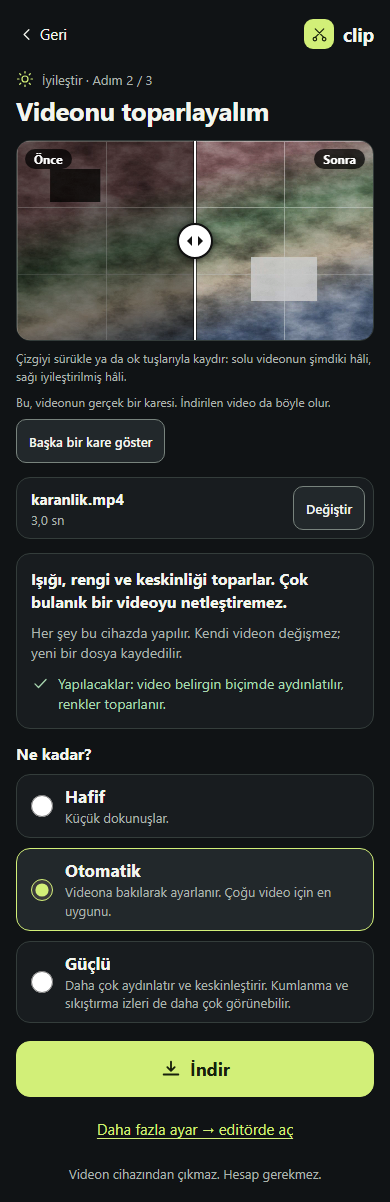
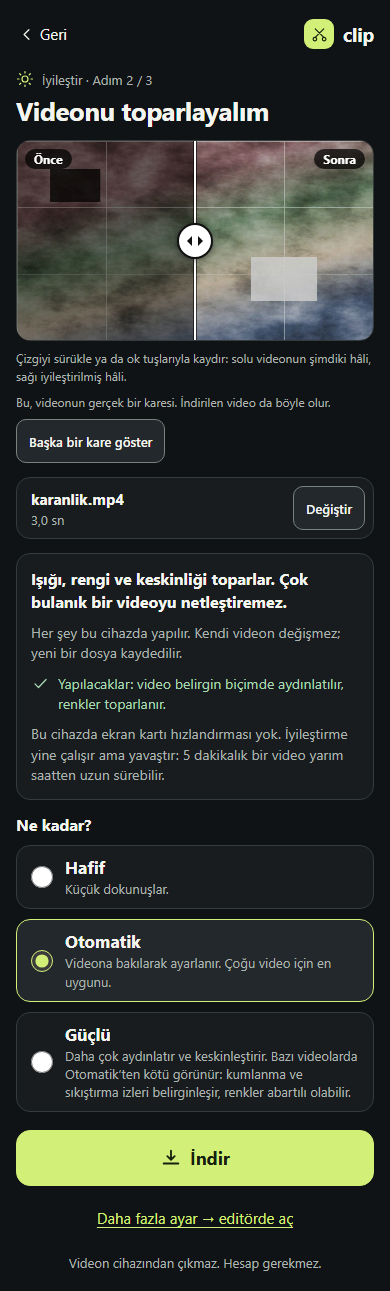
ADR-037 güncellemesi (8 Ekim): bulgu, neden, düzeltme, önce/sonra sayıları; değişiklik kaydı; ekran görüntüleri
- ADR-037 sonuna tarihli bölüm: planın eşik hatası ve test videolarının
  rastgeleliği; kalite, gerçek kayıt ve titreme tablolarında önce/sonra;
  tarayıcıda 3,22 -> 1,40 ve 6,28 -> 1,44 (sınır < 6 aynı); süre uyarısı.
- Politika notu (v8) yeni ölçümle; destek matrisi yeniden üretildi.
- Ekran görüntüleri 90-96 yeniden ("Güçlü" alt yazısı, süre uyarısı).
- many-scenes.mjs geçici dosyasını proje dışına yazıyor.

Changed region(s): [[0.0308, 0.0, 0.9846, 0.985], [0.8923, 0.0, 0.9538, 0.0616], [0.8, 0.0, 0.8615, 0.0616]]

diff --git a/docs/adr/ADR-037-enhance.md b/docs/adr/ADR-037-enhance.md
@@ -1,6 +1,6 @@
 # ADR-037 — "İyileştir": cihaz üstü, tek dokunuşla görüntü iyileştirme (klasik görüntü işleme)
 
-> Tarih: 7 Ekim 2026 · Durum: UYGULANDI (web) · Politika `2026-10-07.v8` · Şema EDL v4
+> Tarih: 7 Ekim 2026 (güncelleme: 8 Ekim 2026, sonda) · Durum: UYGULANDI (web) · Politika `2026-10-07.v8` · Şema EDL v4
 > İlgili: [ADR-034](ADR-034-task-first-home.md) (kartlar), [ADR-027](ADR-027-fast-cut.md) (hızlı kesim),
 > [ADR-029](ADR-029-export-memory.md) (dışa aktarma belleği), `video-editor-blueprint/docs/15_PRICING_FREE_PRO.md`.
 > Bu belgedeki her sayı aşağıda adı geçen betikle, bu makinede ölçüldü. Ölçülmeyen şeyler
@@ -46,7 +46,8 @@ en sakin bloklardan), keskinlik (kontrasta göre eşiklenmiş gradyan enerjisi).
 - **Bakış (renk, keskinlik, kum) video için tektir** — tipik (ortanca) ölçülerden seçilir; kareden
   kareye değişmez, bu yüzden titremez.
 - **Işık (kazanç, siyah, gama) noktadan noktaya değişebilir** ama zamanda yumuşatılır (2 sn'lik,
-  parlaklık farkına duyarlı ortanca / iki yanlı yumuşatma) ve kareler arasında doğrusal
+  parlaklık farkına duyarlı yumuşatma; 8 Ekim'den beri bir kareyi kendi istediğinden en çok yarım
+  "fark edilir adım" uzaklaştırır — sondaki güncelleme) ve kareler arasında doğrusal
   aradeğerlenir. Ardışık iki bakış arasında ışık birden değişiyorsa (sahne değişimi, pozlama
   sıçraması) araya yeni bakışlar eklenir (en çok 96) ve değişim **bitişik iki kareye** kadar
   daraltılır; düzeltme o iki kare arasında değişir, öncesine ve sonrasına taşmaz.
@@ -60,7 +61,7 @@ en sakin bloklardan), keskinlik (kontrasta göre eşiklenmiş gradyan enerjisi).
 | Siyah düzeyi yalnız siyahlar kalkıksa | %0,5 dilimi 0,12'de başlar, 0,24'te tam | bilerek açık tonlu (sisli, yüksek anahtar) görüntüyü ezmeyi |
 | Yüksek anahtar koruması | ortanca 0,3–0,42 üstünde siyah düzeltmesi söner | açık tonlu sahneleri karartmayı |
 | Grafik / ekran kaydı koruması | düz alan payı ≥ 0,4 ya da doygunluk 0,5→0,65 ise ışık ve renk kapanır | ekran kaydı, sunum, çizim renklerini bozmayı |
-| Ölü bantlar | kazanç 0,1 · siyah 0,004 · gama 0,04 · renk sapması 0,02 · canlılık 0,05 | ölçüm gürültüsünden doğan anlamsız küçük değişiklikleri |
+| Ölü bantlar | kazanç 0,1 · siyah 0,004 · gama 0,04 · renk sapması 0,02 · canlılık 0,05 — 8 Ekim'den beri basamak değil, eşikten sonra yavaşça açılır (sondaki güncelleme) | ölçüm gürültüsünden doğan anlamsız küçük değişiklikleri |
 | Beyaz dengesi | gri-dünya ve beyaz-yama **aynı yönü** gösteriyorsa; Otomatik'te sapmanın yarısı, kanal başına en çok %6 | gökyüzü / deniz / orman gibi tek renkli sahneyi "renk sapması" sanmayı |
 | Canlılık | doygunluk 0,35'in altındaysa; Otomatik'te en çok 0,15 | zaten canlı rengi bağırtmayı |
 | Keskinleştirme | keskinlik < 1,05 ise (tam güç 0,8'de) | zaten keskin görüntüde sıkıştırma izlerini büyütmeyi |
@@ -93,8 +94,9 @@ düzeltmesi 1,18. Tek kaynak: `ENHANCE_TUNING` (`web/src/domain/enhance.ts`); mo
 - **Çalışma anı denetimi** (`frameEnhancer.ts`): her dışa aktarmanın başında bir sınama resmi
   hem WebGL hem referansla işlenir. En büyük fark ≤ 2 seviye ve ortalama ≤ 0,4 değilse (ya da
   WebGL2 yoksa / bağlam düşerse) **işlemci yoluna** geçilir — yavaş ama aynı resim. Bu durumda
-  sihirbaz önceden "Bu cihazda grafik hızlandırma kullanılamıyor…" der ve sonuç satırı "Grafik
-  hızlandırma olmadan yapıldı." yazar.
+  (ve 8 Ekim'den beri WebGL bir yazılım işleyicisinde çalışıyorsa da) sihirbaz **indirmeden önce**
+  "Bu cihazda ekran kartı hızlandırması yok…" der, uzun videoda yaklaşık süreyi söyler ve sonuç
+  satırı "Ekran kartı hızlandırması olmadan yapıldı." yazar (sondaki güncelleme).
 - İyileştirme bir karede başarısız olursa dışa aktarma **durur** (`enhance_failed`); iyileştirilmemiş
   kare sessizce yazılmaz.
 
@@ -323,8 +325,8 @@ Okunuşu:
   bakış önizleme için zaten yapıldığından indirme sırasında yeniden yapılmaz.
 - **GPU yoksa** (yazılım WebGL ya da işlemci yolu) kare başına 0,1–0,3 sn: 5 dakikalık 1080p
   kumlu video **36 dakika** sürdü. İşlemci yolu kullanılacaksa sihirbaz bunu önceden söyler;
-  yazılım WebGL (SwiftShader) durumunda **söylemez** — denetim yalnızca doğruluğa bakar, hıza
-  değil. Bu bilinen bir eksiktir (aşağıda).
+  yazılım WebGL (SwiftShader) durumunda 7 Ekim'de **söylemiyordu** — 8 Ekim'de eklendi (sondaki
+  güncelleme).
 - **Bellek:** tepe değer düz kodlamaya göre +14 … +101 MiB (5 dakika) arasında; GPU'lu tarayıcılarda
   renderer ve GPU süreçlerinin tepe değeri ilk yarıda yükselip sonra yatay kalıyor (sürekli
   büyüme görülmedi; 5 dakikadan uzun süre ölçülmedi). 10 saniyelik kumlu satırdaki
@@ -408,8 +410,8 @@ referanssız) **ölçülmedi**.
 - Kalite kümesi küçük: 4 sahneden 9 kare. Gece çekimi, yüz yakın planı, iç mekân ve çok hareketli
   sahne yok; ek açık lisanslı görüntü indirilmedi (indirme için ayrı onay gerekir).
 - Hız satırları tek koşudur.
-- **Bilinen eksik:** yazılım WebGL (SwiftShader) kullanan tarayıcıda uzun süre önceden söylenmiyor
-  (yalnız işlemci yolunda söyleniyor).
+- ~~Bilinen eksik: yazılım WebGL (SwiftShader) kullanan tarayıcıda uzun süre önceden söylenmiyor.~~
+  8 Ekim'de kapandı (sondaki güncelleme).
 - **Bilinen eksik:** oynatıcı iyileştirilmiş görüntüyü canlı göstermez; önizleme tek karedir
   (arayüz bunu söyler).
 
@@ -419,3 +421,236 @@ referanssız) **ölçülmedi**.
    hiç dokunma" isteniyorsa ölü bantlar genişletilebilir; bedeli hafif sapmaların da düzelmemesi.
 2. GPU'suz cihazda uzun videoya süre tahmini / uyarı eklensin mi?
 3. "Güçlü" kalsın mı? Ölçümde bulanık, soluk ve sıkıştırılmış görüntüde Otomatik'ten kötü.
+
+## Güncelleme — 8 Ekim 2026: plan bir eşiğin üstünde duruyordu (bulgu, neden, düzeltme, yeni sayılar)
+
+Bu bölüm yukarıdaki 7 Ekim metnini **düzeltir**; çeliştiği yerde bu bölüm geçerlidir. Motor
+sürümü 2 oldu (`ENHANCE_ENGINE_VERSION`; aynı tarif artık başka pikseller verir, parmak izi değişir).
+
+### Bulgu
+
+`enhance.spec.ts` › "the correction follows a changing exposure without flicker" testinin son
+ölçütü ("iyi pozlanmış bölüm olduğu gibi kalır": 135–165. karelerin ortalama parlaklığı en çok 6
+seviye değişir) ana çalışma kopyasında üretilen `degisen-isik.mp4` ile **3,22**, başka bir çalışma
+kopyasında üretilenle **6,28** ölçtü (ikincide test kalıyordu; dosya ana kopyaya taşınınca aynı
+derlemede yine 6,28). Aynı tarif, iki farklı dosya; ve — asıl önemlisi — neredeyse aynı görünen iki
+videoya gözle görülür biçimde farklı davranan bir plan.
+
+### Neden — iki ayrı hata
+
+**1. Plan (uygulamanın hatası).** `scripts/enhance-eval/explain-plan.mjs` iki dosya için planı
+kare kare yazdırdı. İyi pozlanmış bölümdeki her kare **kendi başına** "hiçbir şey" istiyordu
+(kazanç 1). Ama:
+
+- zaman yumuşatması bir karenin düzeltmesini, ortancası benzeyen bütün komşularıyla **sınırsız**
+  ortalıyordu; iyi pozlanmış bölüm, önündeki yavaşça aydınlanan bölümün kazancından bir pay
+  alıyordu: 135. karede 1,117 / 1,119, 150. karede **1,09… / 1,109**;
+- ölü bant bir **basamaktı**: "kazanç 1,10'dan küçükse hiç uygulanmaz". 150. karede bir dosya
+  basamağın altında kaldı (kazanç 1), diğeri üstünde (kazanç 1,109).
+
+Yani iki hatanın çarpımı: taşan kazanç tam basamağın büyüklüğündeydi ve hangi yana düşeceğini
+resmin ayrıntısı belirliyordu. Aynı senaryo istatistik olarak (video dosyası olmadan) 40 farklı
+kum deseniyle koşturulunca **eski plan iyi pozlanmış bölüme 40 desenin 40'ında dokunuyordu**
+(Otomatik ve Güçlü; kazanç 1,14'e kadar), iki desen arasındaki en büyük fark 0,95 "fark edilir
+adım"dı. On iki farklı sahnede eski plan bölümü 10 sahnede ~0, 2 sahnede **+1,5 / +1,7** seviye
+oynatıyordu (`many-scenes.mjs`, referans işleyici, 320 px).
+
+**2. Test videoları (test düzeneğinin hatası).** Tarifte tohumlar sabitti ama ffmpeg'in `perlin`
+kaynağı `random_seed`'i yalnızca `random_mode=seed` ile kullanır; varsayılan kipte her
+çalıştırmada yeni bir desen çizer. Her çalışma kopyası **başka bir sahne** üretmişti (dosya
+boyutları 21,2–27,1 MB arasında). İlk şüphe (`noise=…:allf=t` ve iş parçacıkları) ölçümle çürüdü:
+o süzgeç bu ffmpeg'de çok iş parçacığıyla da aynı çıktıyı veriyor.
+
+### Düzeltme
+
+Plan (`web/src/domain/enhance.ts`):
+
+| Ne | Önce | Şimdi |
+|---|---|---|
+| Ölü bantlar (kazanç, siyah düzeyi, gama, renk sapması, canlılık, keskinleştirme, kum süzgeci) | basamak: eşiğin altında 0, üstünde tam değer | sürekli (`fadeIn`): eşiğe kadar 0, üstünde `değer − eşik·e^(−(değer−eşik)/eşik)`; eğim en çok 2; eşiğin iki katında eksik kalan eşiğin üçte biri, dört katında yirmide biri |
+| Zaman yumuşatması | benzer görünen komşularla sınırsız ortalama | (1) tek aykırı kare komşularının ortancasını alır (üçün ortası); (2) benzer görünen komşularla ortalama; (3) sonuç, karenin **kendi istediğinden en çok yarım "fark edilir adım"** uzaklaşabilir (kazançta ≈ %6, siyahta 0,004, gamada 0,02) — taşma böylece ölü bandın içinde kalır ve sıfırlanır |
+| Sık bakılan yerler | her bakılan kare eşit sayılır | her kare, temsil ettiği süreyle tartılır (ani değişimin çevresine eklenen yakın bakışlar ortalamayı kendine çekmez; kaç tane oldukları kum desenine bağlıydı) |
+| Görünmeyecek kadar küçük düzeltme türü | yapılır ve "ışık düzeltildi" denir | videonun hiçbir yerinde görünür düzeye çıkmayan tür (ışık: orta gride %2 / siyah 0,002; renk: %0,5 / canlılık 0,02) plandan çıkar — söylenen ile yapılan aynıdır |
+| Kum süzgeci açıkken keskinleştirme eşiği | süzgeç açılınca birden 0,6 × kum | süzgecin gücüyle birlikte kayar |
+
+Ölü bant eşiklerinin kendisi değişmedi (kazanç 1,10 · siyah 0,004 · gama 0,04 · renk 0,02 ·
+canlılık 0,05); değişen, eşiğin hemen üstünde olanlardır: artık orada düzeltme tam değerinde değil,
+yeni başlamış hâldedir. Bedeli aşağıdaki tabloda: küçük renk sapması düzeltmesi yarıya indi.
+
+Test videoları (`web/tests/e2e/enhance-media.ts`): `perlin=…:random_mode=seed:random_seed=7`;
+ayrıca süzgeçler ve kodlayıcı tek iş parçacığında, `+bitexact`, üst veri yok. Dosyalar yeni bir
+klasöre yazılır (`tests/media/enhance/e2e-v2`) — eski, makineden makineye değişen dosyalar bir daha
+kullanılmaz. **Kanıt:** `node scripts/enhance-eval/fixture-determinism.mjs --runs=3` → beş videonun
+beşi üç üretimde de aynı sha256; e2e koşusunun kendi ürettiği dört dosya da (dördüncü, bağımsız
+üretim) aynı özetleri verdi (`degisen-isik.mp4`: `aba22c6f65a084a0…`, 26 245 101 bayt). Sınırı:
+aynı ffmpeg sürümüyle kanıtlandı (9.0.1); başka bir sürüm başka baytlar üretebilir — bu yüzden
+test, sağlamlığını videonun bayt bayt aynı olmasından değil, planın kendisinden alır (aşağıda).
+
+### `< 6` sınırı değiştirilmedi
+
+Testin sınırı aynı kaldı; geçmesini sağlayan plandır. Yeni planla iyi pozlanmış bölümde ışık
+düzeltmesi **tam olarak sıfırdır**; geriye renk kalır:
+
+| 135–165. kareler, ortalama parlaklık farkı (seviye) | Eski plan | Yeni plan |
+|---|---|---|
+| Tarayıcıda, e2e'nin ölçtüğü gibi — "3,22" veren eski dosya | 3,22 | **1,40** |
+| Tarayıcıda, e2e'nin ölçtüğü gibi — "6,28" veren eski dosya | 6,28 | **1,44** |
+| Tarayıcıda — yeni, sabit test videosu | — | **1,44** |
+| Referans işleyici (320 px), 12 farklı sahne — Otomatik | 0 … **+1,66** | **+0,02 … +0,05** |
+| Referans işleyici, 12 farklı sahne — Güçlü | −0,14 … **+1,55** | −0,14 … −0,28 |
+| Referans işleyici, 12 farklı sahne — Hafif | 0 | 0 |
+
+Tarayıcı satırları: Playwright Chromium 153, normal derleme, sihirbaz, Otomatik; kaydedilen dosya
+testin kendi ölçüsüyle ölçüldü (`frameLumas`). Üç dosya artık aynı sonucu veriyor (1,40 / 1,44 /
+1,44). Bu ~1,4 seviyenin ışık düzeltmesiyle ilgisi yok (referans işleyicide ışık payı tam 0, renk
+payı +0,03…+0,05): geri kalanı dışa aktarmanın kendi tabanıdır (yeniden kodlama ve renk aralığı
+dönüşümü). 6'lık sınırın altında, geniş payla; sınırı daraltmak için tek bir tarayıcı ölçümü
+yeterli dayanak değil, o yüzden o da değiştirilmedi. Aynı testte ek bir ölçüt var artık: yavaş
+yükselişin iyi pozlanmış son bölümü (105–135. kareler) de 6 seviyeden az değişir (ölçülen 1,33–1,35).
+Karanlık bölümler eskisi gibi aydınlatılıyor (referans işleyici, 12 sahne: ilk saniye +46, karanlık
+basamak +45 seviye; eski planda +41 / +45 — yumuşatma artık ilk saniyenin kazancını aşağı çekmiyor;
+tarayıcıda +48 / +47).
+
+### Bu sınıf hata artık video dosyası olmadan yakalanıyor
+
+`web/tests/unit/enhanceSensitivity.test.ts` (8 test):
+
+- `fadeIn`: bandın içinde 0, kenarında sürekli, eğim ≤ 2, uzakta değerin kendisi.
+- `chooseTone`: kamera görüntüsüne benzeyen bütün histogramlarda (on binlerce birleşim × üç güç)
+  bir ölçümün **yarım 8-bit seviye** oynaması düzeltmeyi yarım "fark edilir adım"dan az oynatır
+  (eski basamaklarla: 0,84 — %10 kazanç birden — ve 1).
+- `chooseLook`: doygunluk, kum, keskinlik ya da renk sapmasındaki küçük değişiklik beyaz dengesini
+  < 0,005, canlılığı < 0,005, kum süzgecini < 0,25 seviye, keskinleştirmeyi < 0,1 oynatır.
+- Plan: bulgunun videosu istatistik olarak, worker'ın baktığı gibi (yarım saniye + yakın
+  bakışlar), **40 farklı kum deseniyle**: iyi pozlanmış bölüm üç güçte de **tam olarak nötr**;
+  hiçbir kare bir desenden ötekine bir "fark edilir adım"dan fazla farklı işlenmez (ölçülen: Hafif
+  0,23 · Otomatik 0,56 · Güçlü 0,52; eski plan 0,90 / 0,95 / 0,96); kum iki katına çıkınca fark en
+  çok 2,5 katına çıkar (yakında uçurum yok).
+
+Aynı senaryo eski planla koşturulduğunda ilk plan testi 40 desenin 40'ında kalıyor
+(`.scratch` betiğiyle doğrulandı; eski dosya `git show ef6c345:web/src/domain/enhance.ts`).
+
+### Kazançlar korundu mu — önce / sonra
+
+**Kalite (12 bozulma × 9 kare; Δ dB / Δ SSIM; aynı küme, aynı betik):**
+
+| Bozulma | Hafif önce → sonra | Otomatik önce → sonra | Güçlü önce → sonra |
+|---|---|---|---|
+| temiz: değişen kare · ort. PSNR (en kötü) | 2/9 · 53,6 (41,7) → 2/9 · **56,6 (46,8)** | 8/9 · 45,5 (37,2) → 8/9 · **48,1 (38,4)** | 9/9 · 38,7 (31,2) → 9/9 · 39,4 (31,2) |
+| az pozlama ×0,5 | +3,95 → +3,66 | +12,66 → +12,77 | +11,31 → +11,24 |
+| az pozlama ×0,25 | +1,65 → +1,58 | +11,16 → +11,17 | +18,43 → +18,44 |
+| düşük kontrast | +1,05 → +1,09 | +0,90 → +0,84 | +1,50 → +1,30 |
+| sıcak renk sapması | −0,06 → −0,01 | +0,31 → +0,23 | +2,09 → +2,16 |
+| soğuk renk sapması | −0,03 → −0,01 | +0,86 → **+0,53** | +4,48 → +4,56 |
+| soluk renk | −0,01 → −0,02 | **−0,27 → −0,01** | −1,26 → −1,19 |
+| bulanık σ1 | +0,26 → +0,28 | +0,30 → +0,36 | −0,62 → −0,62 |
+| bulanık σ2 | +0,10 → +0,11 | +0,02 → +0,04 | −0,55 → −0,55 |
+| kum σ5 | +4,51 → +4,57 | +3,84 → **+4,42** | +0,62 → +0,72 |
+| kum σ10 | +6,09 → +6,09 | +6,65 → +6,84 | +5,46 → +5,51 |
+| karanlık + kumlu | +2,02 → +1,93 | +14,42 → +14,45 | +14,33 → +14,17 |
+| sıkıştırılmış | −0,02 → −0,01 | −0,17 → −0,13 | −0,80 → −0,80 |
+| **ortalama ΔPSNR / ΔSSIM** | +1,63 / 0,0435 → +1,60 / 0,0429 | **+4,22 / 0,0757 → +4,29 / 0,0757** | +4,58 / 0,0790 → +4,58 / 0,0789 |
+
+Okunuşu: kazançlar yerinde (Otomatik ortalaması +4,22 → +4,29 dB). İyileşenler: temiz karelerde
+daha az dokunuş (+2,6 dB), soluk renkte artık zarar yok, kumda +0,6 dB. Kötüleşen: küçük renk
+sapması düzeltmesi azaldı (soğuk +0,86 → +0,53 dB) — sapma düzeltmesi ölü bandın hemen üstünde
+olduğu için artık tam değerinde uygulanmıyor. Hafif'te karanlık görüntü kazancı biraz düştü
+(+3,95 → +3,66).
+
+**"Zaten iyi olan videoya dokunmaz" iddiası ne kadar doğru?** Hâlâ tam doğru değil, ama daha
+doğru: temiz 9 karenin 8'inde Otomatik yine bir şey değiştiriyor; değişikliğin büyüklüğü küçüldü
+(ortalama PSNR 45,5 → 48,1 dB, yani ortalama karesel hata yarıya yakın azaldı; en kötü kare 37,2 →
+38,4 dB). Hafif'te 9 karenin 7'sine hiç dokunulmuyor, dokunulan ikisinde en kötü 41,7 → 46,8 dB.
+Arayüzdeki cümle iddiayı zaten bu kadar ileri götürmüyor ("…değiştirilecek bir şey bulunamadı"
+yalnızca gerçekten hiçbir şey yapılmayacaksa söylenir).
+
+**Gerçek kayıtlar (13 SDR kayıt, kayıt başına 40 kare — 7 Ekim tablosu 8 kareyleydi; iki plan da
+aynı 40 kareyle; girdiye en düşük / ortalama SSIM):**
+
+| Kayıt | Otomatik, eski plan | Otomatik, yeni plan | Güçlü, eski → yeni (en düşük) |
+|---|---|---|---|
+| R01 | ışık + renk + keskinlik · 0,9957 / 0,9991 | aynı · 0,9957 / 0,9992 | 0,990 → 0,9865 |
+| R02 | renk + keskinlik · 0,9984 / 0,9988 | aynı · 0,9985 / 0,9989 | 0,8419 → 0,8497 |
+| R03 | çok ışık + renk + keskinlik · 0,8357 / 0,8429 | aynı · 0,8350 / 0,8421 | 0,6349 → 0,6338 |
+| R04 | renk + keskinlik · 0,9992 / 0,9993 | aynı · 0,9992 / 0,9993 | 0,9535 → 0,9538 |
+| R05 | **hiçbir şey** | **hiçbir şey** | hiçbir şey |
+| R06 | ışık · 0,9910 / 0,9987 | ışık · **0,9792** / 0,9984 | 0,9766 → 0,9556 |
+| R07 | çok ışık + renk · 0,9348 / 0,9942 | aynı · 0,9393 / 0,9952 | 0,8254 → 0,8223 |
+| R08 | renk + keskinlik · 0,9998 / 0,9999 | aynı · 0,9998 / 0,9999 | 0,9732 → 0,9692 |
+| R10 | ışık + renk · 0,9991 / 0,9999 | **yalnız renk** · 0,9999 / 1,0000 | 0,9937 → **0,9997** |
+| R12 | **hiçbir şey** | **hiçbir şey** | 0,9927 → **0,9999** |
+| R13 | ışık + renk · 0,9989 / 0,9995 | aynı · 0,9992 / 0,9997 | 0,9959 → 0,9868 |
+| R14 | renk + keskinlik · 0,9996 / 0,9998 | aynı · 0,9996 / 0,9998 | 0,9991 → 0,9991 |
+| R15 | renk · 0,9999 / 1,0000 | renk · 1,0000 / 1,0000 | 0,9805 → **0,9531** |
+
+Okunuşu: ortalamalar aynı (üçüncü ondalıkta). Tek tek karelerde iki yönde küçük farklar var: bir
+kare artık komşularının ortalamasına değil kendi ihtiyacına daha yakın düzeltiliyor — R06'nın en
+çok değişen karesi biraz daha çok değişiyor (0,991 → 0,979), R10 ve R12 daha az. Güçlü'de R15'in
+bir karesi belirgin biçimde daha çok değişiyor (0,9805 → 0,9531). Bu bir "zarar" ölçümü değildir
+(referans yok); "ne kadar değişti" ölçümüdür.
+
+**Titreme (ortalama parlaklığın ikinci farkı, seviye; referans işleyici):**
+
+| | Kaynak | Her kare kendi başına | Eski plan | Yeni plan |
+|---|---|---|---|---|
+| Yeni, sabit test videosu — Otomatik | 0,162 | 0,31–0,38 | 0,196 | **0,222** |
+| Yeni, sabit test videosu — Güçlü | 0,162 | — | 0,200 | 0,231 |
+| 12 farklı sahne, ortalama (en az – en çok) — Otomatik | 0,138 | — | 0,172 (0,154–0,20) | **0,194** (0,175–0,22) |
+| 12 farklı sahne, ortalama — Güçlü | 0,138 | — | 0,176 | 0,199 |
+| Ani değişim çevresinde taşma, 12 sahnenin en kötüsü — Otomatik | 2,1 | — | 3,8 | 3,5 |
+
+Okunuşu: düzeltmenin bir bedeli var ve gizlenmiyor — titreme ölçüsü 0,172 → 0,194'e çıktı
+(+0,02 seviye; kaynağın kendi değeri 0,138, kare başına düzeltme 0,31–0,38 olurdu). Yumuşatma
+artık bir kareyi kendi isteğinden yarım adımdan fazla uzaklaştıramadığı için daha az düzleştiriyor.
+Fark, bir 8-bit seviyenin ellide biri düzeyindedir; e2e'deki titreme ölçütü (kaynağınkinden en çok
+0,35 fazla) değişmeden geçiyor. Ani değişimde taşma artmadı.
+
+### Ekran kartı olmayan cihaza süre uyarısı (7 Ekim'in "bilinen eksiği" kapandı)
+
+Worker artık WebGL işleyicisinin adına bakar (`WEBGL_debug_renderer_info`): SwiftShader, llvmpipe,
+"Microsoft Basic Render Driver", WARP gibi **yazılım** işleyicileri ile işlemci yolu "ekran kartı
+hızlandırması yok" sayılır (`isSoftwareRenderer`; tarayıcı adı söylemiyorsa uyarı **gösterilmez** —
+kanıt olmadan uyarı yok). Bu durumda sihirbazda ve Ayarlar → Görüntü'de, **indirmeden önce**:
+
+- "Bu cihazda ekran kartı hızlandırması yok. İyileştirme yine çalışır ama yavaştır: 5 dakikalık bir
+  video yarım saatten uzun sürebilir." (ölçüm: 5 dakikalık 1080p → 36 dakika);
+- tahmin iki dakikayı geçiyorsa bu video için: "…bu video yaklaşık **N dakika** sürebilir." (iki
+  saatten sonra "N saat").
+
+Tahmin = kare sayısı × 0,25 sn × (çıktı pikseli / 1080p pikseli). 0,25 sn/kare, 7 Ekim ölçümlerinin
+ortasıdır (yazılım WebGL, üç geçiş: 0,22–0,24; işlemci yolu: 0,28–0,34; kum süzgeci yokken
+0,09–0,10) ve **tek bir bilgisayarın** ölçümüdür; ölçülen 5 dakikalık koşuyu %4 farkla verir
+(tahmin 2250 sn, ölçülen 2162 sn), kum süzgeci çalışmayan videoda yaklaşık 2,5 kat fazla söyler.
+Metin bu yüzden "yaklaşık … sürebilir" der. 720p için ayrı ölçüm yok (alan oranıyla ölçeklendi).
+İndirme bitince sonuç satırı aynı durumda "Ekran kartı hızlandırması olmadan yapıldı." yazar.
+
+### "Güçlü" kaldı; alt yazısı açık konuşuyor
+
+Kurucunun sözü olmadan kaldırılmadı. Alt yazısı: "Daha çok aydınlatır ve keskinleştirir. Bazı
+videolarda Otomatik'ten kötü görünür: kumlanma ve sıkıştırma izleri belirginleşir, renkler abartılı
+olabilir." (ölçüm: soluk −1,19 dB, bulanık −0,6 dB, sıkıştırılmış −0,8 dB.)
+
+### Testler (8 Ekim 2026, birleştirilmiş ağaç — main 2292e16 dahil; ölçüm kilidi altında)
+
+Tek betik (`web/.scratch/verify.sh`, depo dışı), her adım kendi günlüğüne (`web/enhance-results/verify-*.log`):
+
+- `tsc --noEmit` temiz; `eslint .` temiz (ilk koşuda, aynı anda çalışan bir ölçüm betiğinin geçici
+  dosyası yüzünden ESLint ENOENT ile durdu; betik geçici dosyasını artık proje dışına yazıyor,
+  yeniden koşuda temiz).
+- **Birim: 1101 / 1101** (65 dosya; yeni: `enhanceSensitivity.test.ts` 8 test, `enhance.test.ts`'e
+  yazılım işleyicisi adları ve süre tahmini için 3 test).
+- **e2e (Playwright Chromium, `CLIP_TEST_HOOKS=1` derlemesi, E2E_PORT=3341): 327 geçti, 2 atlandı
+  (isteğe bağlı iki ekran görüntüsü testi), 0 başarısız.**
+- **Matris:** Chromium 153, Chrome 154, Edge 154 → **30 / 30 PASS** (M23 dahil), üçünde de.
+- **Gerçek kayıtlar (Chrome):** 15 / 15 PASS.
+- **Pages duman testi** (statik derleme, CI ortam değişkenleriyle, `/capcut` altında): 7 / 7.
+- Test videolarının aynılığı: 5 video × 3 üretim aynı sha256; e2e'nin kendi ürettikleri de aynı.
+
+### Bu güncellemede ölçülmeyen
+
+- Hız ve bellek yeniden ölçülmedi (kare başına yapılan iş değişmedi; plan hesabı kare başına
+  değil, video başına bir kezdir). 7 Ekim sayıları motor sürümü 1 içindir.
+- Eski iki dosyanın tarayıcı ölçümü yalnız Playwright Chromium'da yinelendi (Chrome ve Edge'de değil).
+- Uyarının metni gerçek bir GPU'suz kullanıcı cihazında denenmedi; yazılım işleyicisi adları
+  listesi bilinen adlardan oluşur, eksik olabilir.
+- Titreme için insan gözüyle karşılaştırma yapılmadı.

diff --git a/video-editor-blueprint/docs/15_PRICING_FREE_PRO.md b/video-editor-blueprint/docs/15_PRICING_FREE_PRO.md
@@ -36,7 +36,7 @@ Politika kimliği: `2026-10-07.v8`. Limitler ürün güvenliği için başlangı
 
 GiB = 1.073.741.824 byte, MiB = 1.048.576 byte. Kullanıcı arayüzü hangi birimi gösteriyorsa gerçek kontrol aynı birimde yapılmalı. “2 GB” deyip farklı limit uygulama.
 
-**Değişiklik `2026-10-07.v8` (kurucu kararı, 7 Ekim 2026):** Cihaz üstü görüntü iyileştirme ("İyileştir") **ücretsiz temel özellik** oldu (yeni satır). Klasik görüntü işlemedir, yapay zekâ değildir: videonun kendi histogramından ışık ve kontrast (sınırlı), yumuşak beyaz dengesi, küçük bir renk canlandırma, hale yapmayan keskinleştirme ve hafif kumlanma süzgeci; hepsi tarayıcıda, dışa aktarma worker'ında (WebGL2, yoksa işlemci) çalışır. Bize hiçbir işlem maliyeti çıkarmaz ve kullanıcının videosu cihazından çıkmaz — hesap, API anahtarı, kota defteri ve rıza ekranı gerekmez. **"AI işlemleri (bulut / ücretli)" satırı değişmedi:** yapay zekâyla büyütme (upscaling) ve gerçek bulanıklık giderme bu özelliğin parçası değildir, vaat edilmez; sonraki ücretli bulut aşamasına bırakıldı (kurucu kararı). **Sınırlar (kota değil, teknik sınır):** yalnızca web; girdi ve çıktı web yerel limitleriyle aynı (en çok 120 dakika video, 4 GiB; 60 dakika çıktı); iyileştirme açıkken görüntü her zaman yeniden kodlanır (hızlı kesim, ADR-027, uygulanmaz) ve çıktı yine 720p/1080p, SDR, en çok 30 fps'tir; ne yapılacağı videoya bakılarak seçilir; zaten iyi görünen videoda hiçbir şey ya da yalnızca çok küçük bir renk dokunuşu yapılır (ölçüm: temiz karelerde ortalama 45,5 dB). Dayanak: `docs/adr/ADR-037-enhance.md` (algoritmalar, parametrelerin ölçümle seçimi, bozulma türü ve güç başına PSNR/SSIM, gerçek kayıtlarda "zarar verme" denetimi, hız ve bellek, titreme ölçümü). Mevcut kullanıcı haklarına etkisi: yalnızca genişleme; hiçbir sınır daralmadı, fiyat ve ücretli haklar değişmedi, şema EDL v4 oldu (v1–v3 tarifler kayıpsız okunur). Ölçülmeyen: telefon (Android/iOS) tarayıcılarında hız ve bellek, Safari ve Firefox, tümleşik GPU, HDR kaynakta kalite (yalnızca "çalışıyor ve dosya geçerli" denetimi yapıldı: Chrome'da bir gerçek HLG kayıt ve bir yapay HDR10 klip), 5 dakikadan uzun iyileştirilmiş çıktı. GPU'suz tarayıcıda (yazılım WebGL) 5 dakikalık 1080p kumlu video 36 dakika sürdü; GPU'lu Chrome/Edge'de 77–80 sn (düz kodlama 55 sn).
+**Değişiklik `2026-10-07.v8` (kurucu kararı, 7 Ekim 2026):** Cihaz üstü görüntü iyileştirme ("İyileştir") **ücretsiz temel özellik** oldu (yeni satır). Klasik görüntü işlemedir, yapay zekâ değildir: videonun kendi histogramından ışık ve kontrast (sınırlı), yumuşak beyaz dengesi, küçük bir renk canlandırma, hale yapmayan keskinleştirme ve hafif kumlanma süzgeci; hepsi tarayıcıda, dışa aktarma worker'ında (WebGL2, yoksa işlemci) çalışır. Bize hiçbir işlem maliyeti çıkarmaz ve kullanıcının videosu cihazından çıkmaz — hesap, API anahtarı, kota defteri ve rıza ekranı gerekmez. **"AI işlemleri (bulut / ücretli)" satırı değişmedi:** yapay zekâyla büyütme (upscaling) ve gerçek bulanıklık giderme bu özelliğin parçası değildir, vaat edilmez; sonraki ücretli bulut aşamasına bırakıldı (kurucu kararı). **Sınırlar (kota değil, teknik sınır):** yalnızca web; girdi ve çıktı web yerel limitleriyle aynı (en çok 120 dakika video, 4 GiB; 60 dakika çıktı); iyileştirme açıkken görüntü her zaman yeniden kodlanır (hızlı kesim, ADR-027, uygulanmaz) ve çıktı yine 720p/1080p, SDR, en çok 30 fps'tir; ne yapılacağı videoya bakılarak seçilir; zaten iyi görünen videoda hiçbir şey ya da yalnızca çok küçük bir renk dokunuşu yapılır (ölçüm, 8 Ekim 2026 düzeltmesinden sonra: temiz karelerde ortalama 48,1 dB). Dayanak: `docs/adr/ADR-037-enhance.md` (algoritmalar, parametrelerin ölçümle seçimi, bozulma türü ve güç başına PSNR/SSIM, gerçek kayıtlarda "zarar verme" denetimi, hız ve bellek, titreme ölçümü). Mevcut kullanıcı haklarına etkisi: yalnızca genişleme; hiçbir sınır daralmadı, fiyat ve ücretli haklar değişmedi, şema EDL v4 oldu (v1–v3 tarifler kayıpsız okunur). Ölçülmeyen: telefon (Android/iOS) tarayıcılarında hız ve bellek, Safari ve Firefox, tümleşik GPU, HDR kaynakta kalite (yalnızca "çalışıyor ve dosya geçerli" denetimi yapıldı: Chrome'da bir gerçek HLG kayıt ve bir yapay HDR10 klip), 5 dakikadan uzun iyileştirilmiş çıktı. GPU'suz tarayıcıda (yazılım WebGL) 5 dakikalık 1080p kumlu video 36 dakika sürdü; GPU'lu Chrome/Edge'de 77–80 sn (düz kodlama 55 sn); ekran kartı hızlandırması olmayan cihazda bu, indirmeden önce yaklaşık süreyle söylenir (8 Ekim 2026).
 
 **Değişiklik `2026-10-04.v7` (kurucu kararı, 4 Ekim 2026):** Cihaz üstü yazıya dökme ve otomatik altyazı **ücretsiz temel özellik** oldu (yeni satır). Önceki tabloda tek satır vardı ("AI işlemleri: Free'de yok"); o satır bulutta çalışan, bize dakika/istek maliyeti olan AI içindi ve **değişmedi** (adı "AI işlemleri (bulut / ücretli)" olarak netleştirildi; Free'de yok, başlangıç aboneliğine dahil değil; cloud hakları tablosu, fiyatlar ve ücretli haklar aynı). Gerekçe: cihaz üstü transkript bize hiçbir işlem maliyeti çıkarmaz ve kullanıcının sesi, görüntüsü, metni cihazından çıkmaz — hesap, API anahtarı, kota defteri ve rıza ekranı gerekmez (ADR-017 karar 4 bunu zaten öngörüyordu; bu sürüm tabloya yazar). **Sınırlar (kota değil, teknik sınır):** yalnızca web ve yalnızca İngilizce konuşma; girdi, web yerel limitleriyle aynı (en çok 120 dakika video, 4 GiB); bir projede en çok **3000** altyazı satırı (500 idi; 120 dakikalık yoğun konuşmayı dakikada 25 satırla karşılar); altyazılı video indirme çıktı limitine tabidir (60 dakika); model kullanıcının açık eylemiyle bir kez indirilir (küçük model 108,8 MB; isteğe bağlı büyük model 595,6 MB, yalnızca WebGPU ve `shader-f16` olan cihazda sunulur) ve tarayıcıda saklanır. Dayanak ve ölçümler: `docs/adr/ADR-036-on-device-transcript.md` (uygulama yolunda yeniden ölçüm: negatif kliplerde uydurma metin 0; WER, kelime zamanı, hız ve bellek tabloları orada) ve `docs/spikes/2026-10-03-asr-on-device-english.md`. Yalnızca yerel web rotasını etkiler; mobil ve cloud satırları, fiyat ve ücretli haklar değişmedi. Mevcut kullanıcı haklarına etkisi: yalnızca genişleme (yeni özellik; satır sınırı 500 → 3000), hiçbir proje daha önce açılabilirken kapanmaz. **Ölçülmeyen ve bu yüzden açılmayan:** Türkçe ve diğer diller; dizüstü; Safari. Çıktı "Otomatik yazıldı — yanlış olabilir" etiketiyle gelir; doğruluk vaadi değildir.
 

diff --git a/video-editor-blueprint/CHANGELOG.md b/video-editor-blueprint/CHANGELOG.md
@@ -23,6 +23,30 @@ Kurucu canlı sitede denedi (5 Ekim): kısa, temiz videoda çoğunlukla çalış
 
 **Hâlâ zayıf (bulut yolunun karşılaması gereken):** üst üste konuşma ve konuşmacı ayrımı (en iyi durumda WER %21–22); müzik altında ve uzak mikrofonda küçük model (WER %34–55); WebGPU'suz her cihaz (telefonlar, Firefox, Safari) küçük modelde kalır; uzun çağrıda `turbo` da %11. **Ölçülmeyen:** telefon, dizüstü, Safari, gerçek ekran okuyucu, Türkçe. Mevcut kullanıcı haklarına etkisi: yok (fiyat, kota, şema, gizlilik metni değişmedi).
 
+## İyileştir: plan eşikte açılıp kapanmıyor, test videoları her üretimde aynı, GPU'suz cihaza süre uyarısı — 8 Ekim 2026 (ADR-037 güncellemesi; politika ve şema değişmedi, motor sürümü 2)
+
+**Bulgu:** aynı tariften iki çalışma kopyasında üretilen "değişen ışık" test videosunda iyi pozlanmış bölüm birinde 3,22, diğerinde 6,28 seviye aydınlanıyordu (e2e sınırı 6; ikincide test kalıyordu). Aynı görünen iki videoya gözle görülür biçimde farklı davranan bir plan demekti.
+
+**Neden (uygulama):** zaman yumuşatması iyi pozlanmış bölüme, önündeki aydınlanan bölümün kazancından yaklaşık onda bir taşıyordu; ölü bant ise tam o büyüklükte bir basamaktı ("kazanç 1,10'dan küçükse hiç"). Hangi yana düşeceğini resmin ayrıntısı belirliyordu. İstatistik olarak 40 farklı kum deseniyle denendiğinde eski plan o bölüme 40 desenin 40'ında dokunuyordu.
+
+**Düzeltilen — plan:** ölü bantlar basamak değil, eşikten sonra yavaşça açılır (eğim en çok 2); yumuşatma bir kareyi kendi istediğinden en çok yarım "fark edilir adım" uzaklaştırır; tek aykırı kare komşularının ortancasını alır; sık bakılan yerler ortalamada fazla sayılmaz; hiçbir yerde görünür olmayan düzeltme türü plandan çıkar (söylenen ile yapılan aynı). Sonuç, tarayıcıda, e2e'nin ölçüsüyle: eski iki dosyada **3,22 → 1,40** ve **6,28 → 1,44**; yeni sabit dosyada 1,44. On iki farklı sahnede (referans işleyici) bölüm 0 … +1,66 yerine +0,02 … +0,05 seviye oynuyor. **Testin `< 6` sınırı değiştirilmedi.**
+
+**Kazançlar korundu (aynı küme, önce → sonra):** Otomatik ortalama +4,22 → **+4,29 dB**, SSIM +0,0757 → +0,0757; temiz karelerde dokunuş azaldı (ortalama 45,5 → 48,1 dB; 9 karenin 8'i yine bir miktar değişiyor); soluk renkte artık zarar yok (−0,27 → −0,01 dB); kum +3,84 → +4,42 dB. **Bedeli:** küçük renk sapması düzeltmesi azaldı (soğuk +0,86 → +0,53 dB) ve titreme ölçüsü biraz arttı (12 sahne ortalaması 0,172 → 0,194 seviye; kaynak 0,138, kare başına düzeltme 0,31–0,38 olurdu). Gerçek kayıtlarda ortalamalar aynı; tek tek karelerde iki yönde küçük farklar.
+
+**Düzeltilen — test videoları:** ffmpeg'in `perlin` kaynağı `random_seed`'i yalnızca `random_mode=seed` ile kullanıyor; her üretim başka bir sahneydi. Artık aynı baytlar: beş video × üç üretim aynı sha256 (`scripts/enhance-eval/fixture-determinism.mjs`), e2e'nin kendi ürettikleri de aynı. Dosyalar yeni klasörde (`tests/media/enhance/e2e-v2`).
+
+**Yeni birim testleri (video dosyası olmadan):** yarım 8-bit seviyelik ölçüm farkı düzeltmeyi yarım adımdan az oynatır; 40 farklı kum deseninde iyi pozlanmış bölüm tam olarak dokunulmadan kalır ve hiçbir kare bir desenden ötekine bir adımdan fazla farklı işlenmez.
+
+**Eklenen — süre uyarısı:** ekran kartı hızlandırması yoksa (işlemci yolu ya da WebGL'in yazılım işleyicisi: SwiftShader, llvmpipe, Microsoft Basic Render Driver) sihirbaz ve Ayarlar → Görüntü bunu **indirmeden önce** söyler: "Bu cihazda ekran kartı hızlandırması yok. İyileştirme yine çalışır ama yavaştır: 5 dakikalık bir video yarım saatten uzun sürebilir." — tahmin iki dakikayı geçiyorsa "bu video yaklaşık N dakika sürebilir" (kare başına 0,25 sn × piksel oranı; tek bir bilgisayarın ölçümünden, "yaklaşık" diye). 7 Ekim'in bilinen eksiği kapandı.
+
+**Değişen — "Güçlü":** kaldı (kurucunun sözü olmadan kaldırılmaz); alt yazısı artık açıkça "Bazı videolarda Otomatik'ten kötü görünür: kumlanma ve sıkıştırma izleri belirginleşir, renkler abartılı olabilir." diyor.
+
+**Testler (8 Ekim 2026, main 2292e16 birleştirilmiş ağaç, ölçüm kilidi altında):** `tsc` ve `eslint` temiz; birim **1101 / 1101** (65 dosya); e2e **327 geçti, 2 atlandı, 0 başarısız**; matris Chromium / Chrome / Edge **30 / 30**; gerçek kayıtlar (Chrome) **15 / 15**; Pages duman testi **7 / 7**.
+
+**Ölçülmeyen:** hız ve bellek yeniden ölçülmedi (kare başına iş değişmedi); uyarı gerçek bir GPU'suz kullanıcı cihazında denenmedi; titreme için gözle karşılaştırma yok.
+
+Mevcut kullanıcı haklarına etkisi: yok. İyileştirme açıkken indirilen videoların pikselleri değişti (motor sürümü 2); kapalıyken hiçbir şey değişmedi.
+
 ## İyileştir: cihaz üstü, tek dokunuşla görüntü iyileştirme — 7–8 Ekim 2026 (ADR-037; politika `2026-10-07.v8`, şema EDL v4)
 
 Kurucu kararı (7 Ekim 2026): planlanan son ücretsiz kart yapılsın — tek dokunuş, cihazda, **klasik görüntü işleme**. Yapay zekâ, büyütme (upscaling) ya da bulanıklık giderme değildir ve hiçbir yerde böyle söylenmez; bunlar sonraki ücretli bulut aşamasına bırakıldı.

diff --git a/docs/SUPPORT_MATRIX.md b/docs/SUPPORT_MATRIX.md
@@ -18,9 +18,9 @@ Her satır `video-editor-blueprint/docs/22_QA_TEST_MATRIX.md` içindeki bir fixt
 
 | Tarayıcı | Sürüm | Encoder kabiliyeti | Çalıştırma |
 |---|---|---|---|
-| Chromium (Playwright) | 153.0.8010.12 | H.264 var · AAC var | 2026-10-07 19:05 UTC |
-| Google Chrome | 154.0.0.0 | H.264 var · AAC var | 2026-10-07 19:16 UTC |
-| Microsoft Edge | 154.0.0.0 | H.264 var · AAC var | 2026-10-07 19:24 UTC |
+| Chromium (Playwright) | 153.0.8010.12 | H.264 var · AAC var | 2026-10-08 18:03 UTC |
+| Google Chrome | 154.0.0.0 | H.264 var · AAC var | 2026-10-08 18:08 UTC |
+| Microsoft Edge | 154.0.0.0 | H.264 var · AAC var | 2026-10-08 18:13 UTC |
 | Firefox (Playwright) | çalıştırılmadı | çalıştırılmadı | — |
 | WebKit (Playwright) | çalıştırılmadı | çalıştırılmadı | — |
 
@@ -77,8 +77,8 @@ Hepsi win32 x64 üzerinde, headless olarak çalıştırıldı. **Bu matris gerç
 | M08 | 10.005333 s | 300 | 720x1280 | — | müzik önce -69.5 → sonra -36.1 dB |
 | M09 | 6.016 s | 180 | 1280x720 | — | sınır -24.4 / genel -24.1 dB |
 | M10-hevc | — | — | — | — | sonuç: import_rejected |
-| M10-hdr | 3.008 s | 90 | 1280x720 | 0.9698 | HDR→SDR: en yakın ref-hable, ΔE00 3.075, kayma 3.621, doygunluk 1.004..1.005, ton 1.953°, kırpma -0.047 |
-| M10-hdr-hlg | 3.008 s | 90 | 720x1280 | 0.9729 | HDR→SDR: en yakın placebo-spline, ΔE00 3.257, kayma 2.243, doygunluk 1.038..1.038, ton 2.346°, kırpma -0.001 |
+| M10-hdr | 3.008 s | 90 | 1280x720 | 0.9698 | HDR→SDR: en yakın ref-hable, ΔE00 3.072, kayma 3.618, doygunluk 1.004..1.005, ton 1.95°, kırpma -0.047 |
+| M10-hdr-hlg | 3.008 s | 90 | 720x1280 | 0.9729 | HDR→SDR: en yakın placebo-spline, ΔE00 3.257, kayma 2.241, doygunluk 1.038..1.038, ton 2.349°, kırpma -0.001 |
 | M12 | 4.010667 s | 120 | 1280x720 | — | — |
 | M14 | 10.005333 s | 300 | 720x1280 | — | — |
 | M15 | 6.016 s | 180 | 1280x720 | — | — |
@@ -98,7 +98,7 @@ Hepsi win32 x64 üzerinde, headless olarak çalıştırıldı. **Bu matris gerç
 
 ## Gerçek kayıtlar
 
-### Google Chrome — 15 PASS, 0 REFUSED, 0 FAIL, 0 ERROR (2026-10-07 19:46 UTC)
+### Google Chrome — 15 PASS, 0 REFUSED, 0 FAIL, 0 ERROR (2026-10-08 18:23 UTC)
 
 | # | Durum | Codec | Boyut | Rotasyon | fps | Süre | Dosya | Renk | Ses | SSIM |
 |---|---|---|---|---|---|---|---|---|---|---|
@@ -112,14 +112,14 @@ Hepsi win32 x64 üzerinde, headless olarak çalıştırıldı. **Bu matris gerç
 | R08 | PASS | h264 | 224x128 | 0° | 15 | 34.4 s | 0.7 MiB | bt709 | aac | 0.9909 |
 | R09 | PASS | hevc | 3840x2160 | 0° | 29.024 | 1.1 s | 6.8 MiB | smpte2084 | aac | 0.9347 |
 | R10 | PASS | h264 | 1920x1080 | 0° | 29.974 | 341.2 s | 618.3 MiB | bt709 | aac | 0.9446 |
-| R11 | PASS | hevc | 1920x1080 | -90° | 56.536 (VFR?) | 21.7 s | 33.3 MiB | arib-std-b67 | aac | 0.9473 |
+| R11 | PASS | hevc | 1920x1080 | -90° | 56.536 (VFR?) | 21.7 s | 33.3 MiB | arib-std-b67 | aac | 0.9472 |
 | R12 | PASS | h264 | 1920x1080 | -180° | 59.93 | 88.7 s | 249 MiB | bt709 | aac | 0.9571 |
 | R13 | PASS | hevc | 3840x2160 | -90° | 29.83 | 10.4 s | 53.8 MiB | bt709 | aac | 0.9101 |
 | R14 | PASS | hevc | 1920x1080 | -90° | 30.017 | 11.8 s | 14.4 MiB | bt709 | aac | 0.9879 |
 | R15 | PASS | h264 | 1920x1080 | -90° | 60.042 | 4.4 s | 14.8 MiB | bt709 | aac | 0.8607 |
 
 - R09 HDR→SDR: en yakın ref-hable, ΔE00 5.316, kayma 1.049, doygunluk 1.082..1.092, ton 1.356°, kırpma 0.016
-- R11 HDR→SDR: en yakın placebo-spline, ΔE00 5.277, kayma 1.135, doygunluk 1.018..1.154, ton 8.552°, kırpma 0
+- R11 HDR→SDR: en yakın placebo-spline, ΔE00 5.278, kayma 1.123, doygunluk 1.019..1.154, ton 8.447°, kırpma 0
 
 ## Gerçek telefon
 
